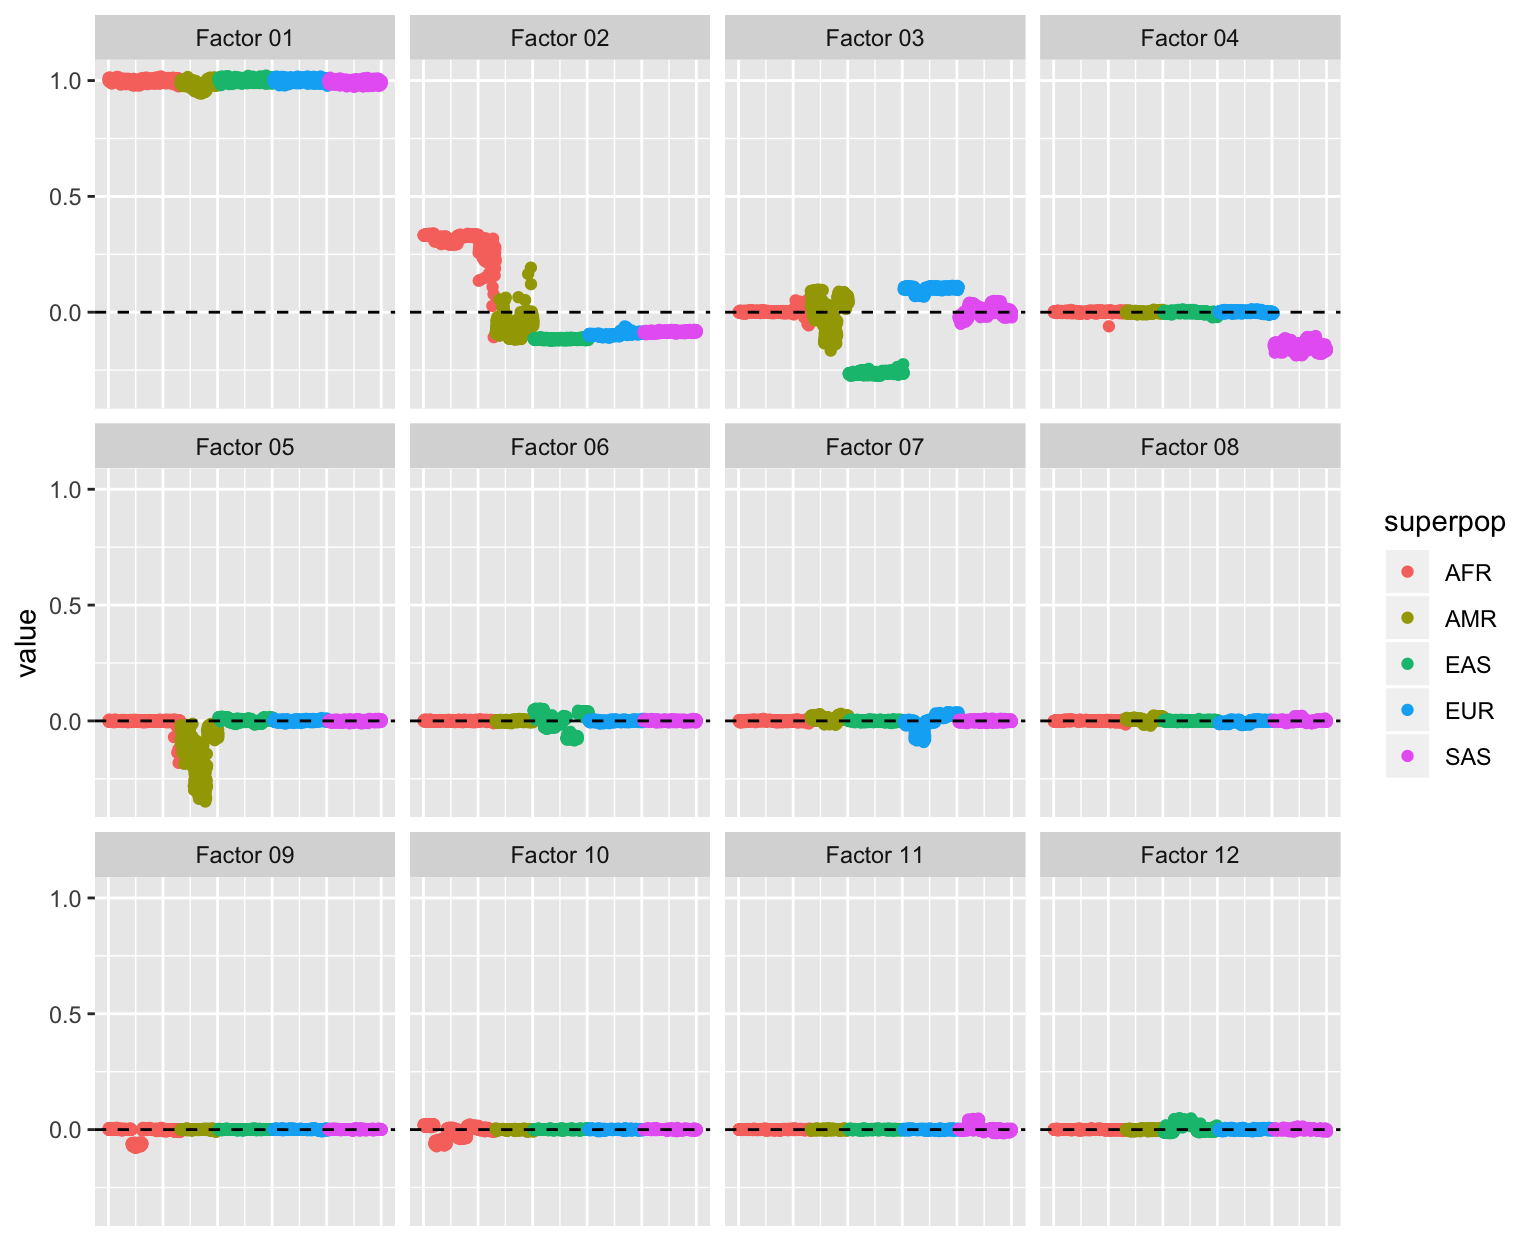
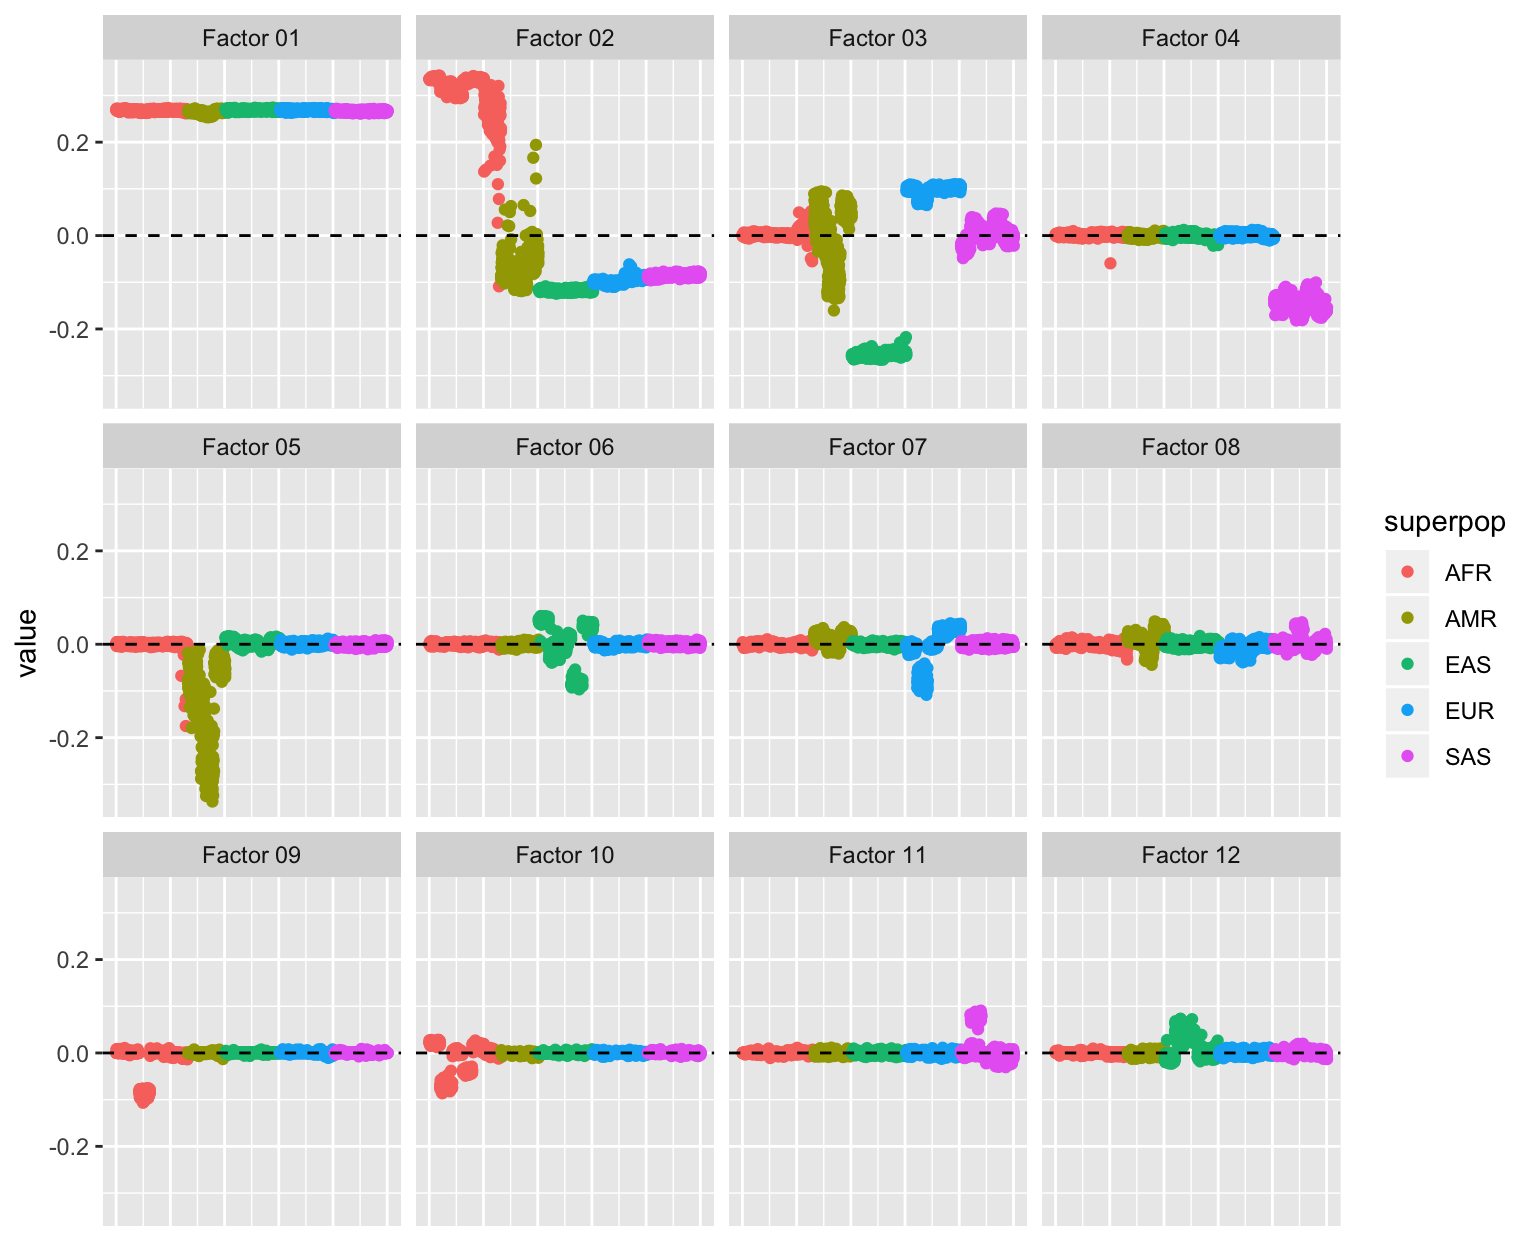
Build site.

diff --git a/docs/covmat_1kg_shared.html b/docs/covmat_1kg_shared.html
@@ -363,7 +363,7 @@ div.section {
 <div class="tab-content">
 <div id="summary" class="tab-pane fade in active">
 <p>
-<strong>Last updated:</strong> 2020-09-11
+<strong>Last updated:</strong> 2020-09-13
 </p>
 <p>
 <strong>Checks:</strong> <span class="glyphicon glyphicon-ok text-success" aria-hidden="true"></span> 6 <span class="glyphicon glyphicon-exclamation-sign text-danger" aria-hidden="true"></span> 0
@@ -442,10 +442,10 @@ This reproducible <a href="http://rmarkdown.rstudio.com">R Markdown</a> analysis
 <div class="panel panel-default">
 <div class="panel-heading">
 <p class="panel-title">
-<a data-toggle="collapse" data-parent="#workflowr-checks" href="#strongRepositoryversionstrongahrefhttpsgithubcomjhmarcusdriftworkflowtreea80e7f4044bc8b78d3b8a58d8a518a2e23bf1ddftargetblanka80e7f4a"> <span class="glyphicon glyphicon-ok text-success" aria-hidden="true"></span> <strong>Repository version:</strong> <a href="https://github.com/jhmarcus/drift-workflow/tree/a80e7f4044bc8b78d3b8a58d8a518a2e23bf1ddf" target="_blank">a80e7f4</a> </a>
+<a data-toggle="collapse" data-parent="#workflowr-checks" href="#strongRepositoryversionstrongahrefhttpsgithubcomjhmarcusdriftworkflowtreebf146e7cc089eb8adf23d535eaa6e887355f8667targetblankbf146e7a"> <span class="glyphicon glyphicon-ok text-success" aria-hidden="true"></span> <strong>Repository version:</strong> <a href="https://github.com/jhmarcus/drift-workflow/tree/bf146e7cc089eb8adf23d535eaa6e887355f8667" target="_blank">bf146e7</a> </a>
 </p>
 </div>
[2 lines of base64/hex data omitted]
 <div class="panel-body">
 <p>
 Great! You are using Git for version control. Tracking code development and connecting the code version to the results is critical for reproducibility. The version displayed above was the version of the Git repository at the time these results were generated. <br><br> Note that you need to be careful to ensure that all relevant files for the analysis have been committed to Git prior to generating the results (you can use <code>wflow_publish</code> or <code>wflow_git_commit</code>). workflowr only checks the R Markdown file, but you know if there are other scripts or data files that it depends on. Below is the status of the Git repository when the results were generated:
@@ -467,6 +467,7 @@ Untracked files:
     Untracked:  analysis/pm1_priors_tmp.Rmd
 
 Unstaged changes:
+    Modified:   analysis/covmat_1kg.Rmd
     Modified:   analysis/tree_literature.Rmd
     Modified:   drift-workflow.Rproj
 
@@ -512,6 +513,40 @@ Message
 Rmd
 </td>
 <td>
+<a href="https://github.com/jhmarcus/drift-workflow/blob/bf146e7cc089eb8adf23d535eaa6e887355f8667/analysis/covmat_1kg_shared.Rmd" target="_blank">bf146e7</a>
+</td>
+<td>
+Jason Willwerscheid
+</td>
+<td>
+2020-09-13
+</td>
+<td>
+wflow_publish(“analysis/covmat_1kg_shared.Rmd”)
+</td>
+</tr>
+<tr>
+<td>
+html
+</td>
+<td>
+<a href="https://rawcdn.githack.com/jhmarcus/drift-workflow/ab9ba91d5c74443449921416bb1f0dd6c3bba1a1/docs/covmat_1kg_shared.html" target="_blank">ab9ba91</a>
+</td>
+<td>
+Jason Willwerscheid
+</td>
+<td>
+2020-09-11
+</td>
+<td>
+Build site.
+</td>
+</tr>
+<tr>
+<td>
+Rmd
+</td>
+<td>
 <a href="https://github.com/jhmarcus/drift-workflow/blob/a80e7f4044bc8b78d3b8a58d8a518a2e23bf1ddf/analysis/covmat_1kg_shared.Rmd" target="_blank">a80e7f4</a>
 </td>
 <td>
@@ -540,9 +575,9 @@ wflow_publish(“analysis/covmat_1kg_shared.Rmd”)
 <pre class="r"><code>covmat &lt;- readRDS(&quot;../data/datasets/1kg_phase3_derived/1kg_phase3_derived_covmat.rds&quot;)
 meta &lt;- readRDS(&quot;../data/datasets/1kg_phase3_derived/1kg_phase3_derived_meta.rds&quot;)
 
-plot_fl &lt;- function(fl) {
-  df &lt;- data.frame(fl$flash.fit$EF[[1]])
-  colnames(df) &lt;- paste0(&quot;Factor &quot;, formatC(1:fl$n.factors, width = 2, flag = &quot;0&quot;))
+plot_fl &lt;- function(LL) {
+  df &lt;- data.frame(LL)
+  colnames(df) &lt;- paste0(&quot;Factor &quot;, formatC(1:ncol(LL), width = 2, flag = &quot;0&quot;))
   df$subpop &lt;- meta$pop
   df$superpop &lt;- meta$super_pop
   df &lt;- df %&gt;% arrange(superpop)
@@ -577,15 +612,89 @@ fl_g &lt;- flash.init(covmat) %&gt;%
   flash.add.greedy(Kmax = 11, 
                    prior.family = prior.point.laplace())
 
-plot(plot_fl(fl_g))</code></pre>
+plot(plot_fl(fl_g$loadings.pm[[1]] %*% diag(sqrt(fl_g$loadings.scale))))</code></pre>
 <p><img src="figure/covmat_1kg_shared.Rmd/pl_g-1.png" width="768" style="display: block; margin: auto;" /></p>
+<p>
+<button type="button" class="btn btn-default btn-xs btn-workflowr btn-workflowr-fig" data-toggle="collapse" data-target="#fig-pl_g-1">
+Past versions of pl_g-1.png
+</button>
+</p>
+<div id="fig-pl_g-1" class="collapse">
+<div class="table-responsive">
+<table class="table table-condensed table-hover">
+<thead>
+<tr>
+<th>
+Version
+</th>
+<th>
+Author
+</th>
+<th>
+Date
+</th>
+</tr>
+</thead>
+<tbody>
+<tr>
+<td>
+<a href="https://github.com/jhmarcus/drift-workflow/blob/ab9ba91d5c74443449921416bb1f0dd6c3bba1a1/docs/figure/covmat_1kg_shared.Rmd/pl_g-1.png" target="_blank">ab9ba91</a>
+</td>
+<td>
+Jason Willwerscheid
+</td>
+<td>
+2020-09-11
+</td>
+</tr>
+</tbody>
+</table>
+</div>
+</div>
 </div>
 <div id="backfit" class="section level2">
 <h2>Backfit</h2>
 <pre class="r"><code>fl_bf &lt;- fl_g %&gt;% flash.backfit()
 
-plot(plot_fl(fl_bf))</code></pre>
+plot(plot_fl(fl_bf$loadings.pm[[1]] %*% diag(sqrt(fl_bf$loadings.scale))))</code></pre>
 <p><img src="figure/covmat_1kg_shared.Rmd/pl_bf-1.png" width="768" style="display: block; margin: auto;" /></p>
+<p>
+<button type="button" class="btn btn-default btn-xs btn-workflowr btn-workflowr-fig" data-toggle="collapse" data-target="#fig-pl_bf-1">
+Past versions of pl_bf-1.png
+</button>
+</p>
+<div id="fig-pl_bf-1" class="collapse">
+<div class="table-responsive">
+<table class="table table-condensed table-hover">
+<thead>
+<tr>
+<th>
+Version
+</th>
+<th>
+Author
+</th>
+<th>
+Date
+</th>
+</tr>
+</thead>
+<tbody>
+<tr>
+<td>
+<a href="https://github.com/jhmarcus/drift-workflow/blob/ab9ba91d5c74443449921416bb1f0dd6c3bba1a1/docs/figure/covmat_1kg_shared.Rmd/pl_bf-1.png" target="_blank">ab9ba91</a>
+</td>
+<td>
+Jason Willwerscheid
+</td>
+<td>
+2020-09-11
+</td>
+</tr>
+</tbody>
+</table>
+</div>
+</div>
 </div>
 <div id="additional-diagonal-variance" class="section level2">
 <h2>Additional diagonal variance</h2>
@@ -624,8 +733,64 @@ while (elbo_diff &gt; 0.1) {
 #&gt; SD (diagonal): 2.86e-01  SD (non-diag): 1.47e-03  ELBO: 31795062 
 #&gt; SD (diagonal): 2.86e-01  SD (non-diag): 1.47e-03  ELBO: 31795062</code></pre>
 <pre class="r"><code>
-plot(plot_fl(fl))</code></pre>
+plot(plot_fl(fl$loadings.pm[[1]] %*% diag(sqrt(fl$loadings.scale))))</code></pre>
 <p><img src="figure/covmat_1kg_shared.Rmd/diag-1.png" width="768" style="display: block; margin: auto;" /></p>
+<p>
+<button type="button" class="btn btn-default btn-xs btn-workflowr btn-workflowr-fig" data-toggle="collapse" data-target="#fig-diag-1">
+Past versions of diag-1.png
+</button>
+</p>
+<div id="fig-diag-1" class="collapse">
+<div class="table-responsive">
+<table class="table table-condensed table-hover">
+<thead>
+<tr>
+<th>
+Version
+</th>
+<th>
+Author
+</th>
+<th>
+Date
+</th>
+</tr>
+</thead>
+<tbody>
+<tr>
+<td>
+<a href="https://github.com/jhmarcus/drift-workflow/blob/ab9ba91d5c74443449921416bb1f0dd6c3bba1a1/docs/figure/covmat_1kg_shared.Rmd/diag-1.png" target="_blank">ab9ba91</a>
+</td>
+<td>
+Jason Willwerscheid
+</td>
+<td>
+2020-09-11
+</td>
+</tr>
+</tbody>
+</table>
+</div>
+</div>
+</div>
+<div id="drift" class="section level2">
+<h2>Drift</h2>
+<pre class="r"><code>LL &lt;- fl$loadings.pm[[1]] %*% diag(sqrt(fl$loadings.scale))
+LL &lt;- cbind(abs(LL[, 1]), pmax(LL[, -1], 0), pmax(-LL[, -1], 0))
+LL &lt;- LL[, c(1, as.vector(sapply(2:12, `+`, c(0, 11))))]
+
+LL_scale &lt;- apply(LL, 2, max)
+LL &lt;- t(t(LL) / LL_scale)
+
+which_k &lt;- (LL_scale &gt; .01)
+LL &lt;- LL[, which_k]
+LL_scale &lt;- LL_scale[which_k]
+
+dr &lt;- init_from_covmat(covmat, LL, p = 30000, prior.s2 = LL_scale^2, fix.EL = 1)
+dr &lt;- drift(dr, maxiter = 200, verbose = FALSE)
+
+plot(plot_fl(dr$EL %*% diag(sqrt(dr$prior_s2))))</code></pre>
+<p><img src="figure/covmat_1kg_shared.Rmd/dr-1.png" width="768" style="display: block; margin: auto;" /></p>
 <br> <br>
 <p>
 <button type="button" class="btn btn-default btn-workflowr btn-workflowr-sessioninfo" data-toggle="collapse" data-target="#workflowr-sessioninfo" style="display: block;">
@@ -652,7 +817,7 @@ plot(plot_fl(fl))</code></pre>
 #&gt;  [1] forcats_0.4.0      stringr_1.4.0      dplyr_0.8.0.1     
 #&gt;  [4] purrr_0.3.2        readr_1.3.1        tidyr_0.8.3       
 #&gt;  [7] tibble_2.1.1       ggplot2_3.2.0      tidyverse_1.2.1   
-#&gt; [10] drift.alpha_0.0.10 flashier_0.2.7    
+#&gt; [10] drift.alpha_0.0.11 flashier_0.2.7    
 #&gt; 
 #&gt; loaded via a namespace (and not attached):
 #&gt;  [1] Rcpp_1.0.4.6      lubridate_1.7.4   invgamma_1.1     
